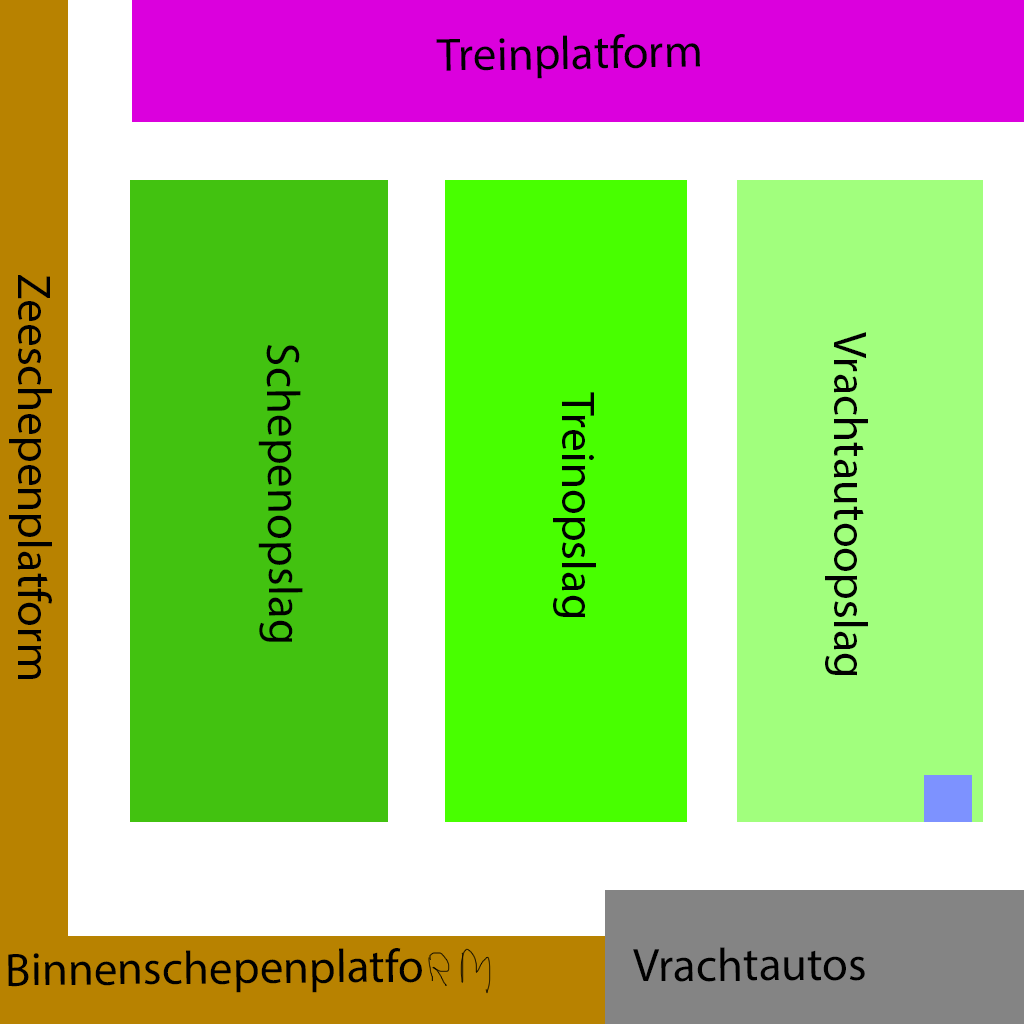
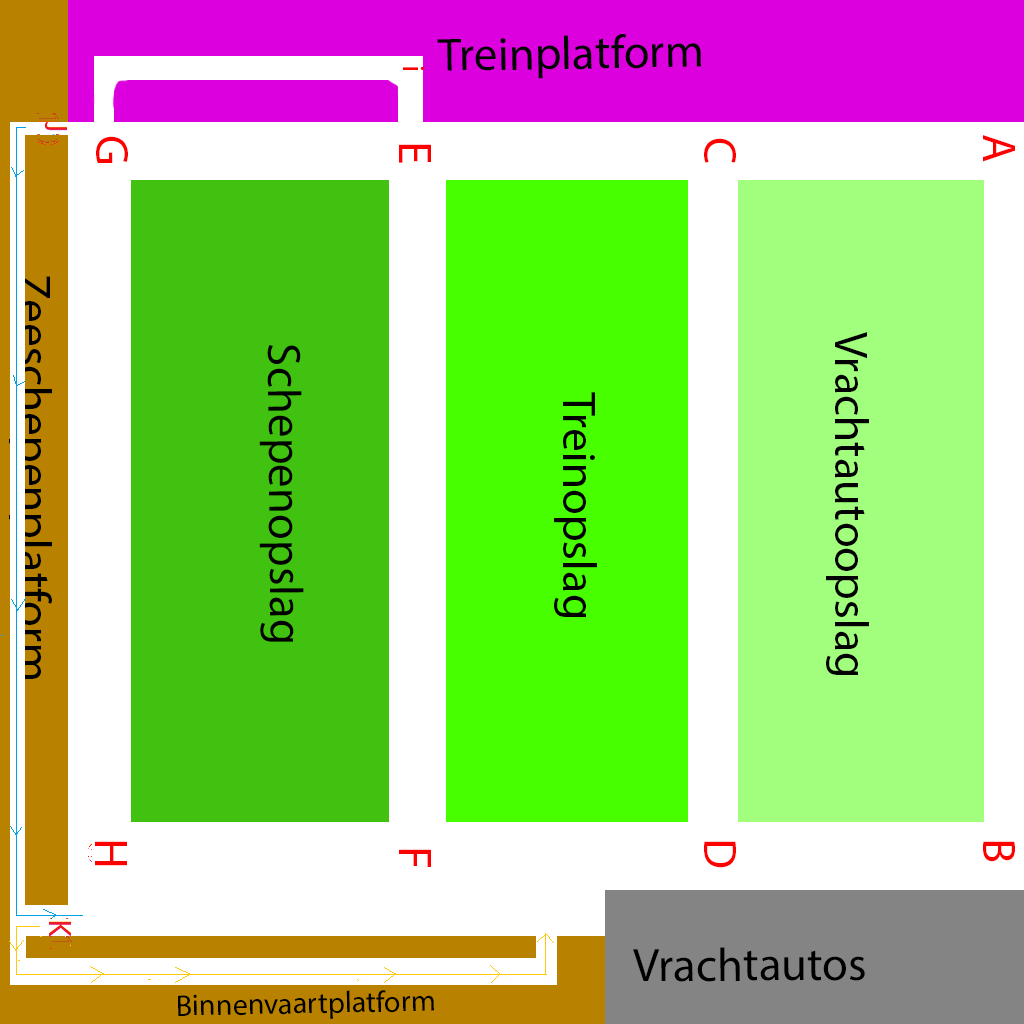
Implemented water and AGVs

diff --git a/src/main/java/org/nhl/containing/vehicles/Agv.java b/src/main/java/org/nhl/containing/vehicles/Agv.java
@@ -15,41 +15,69 @@ public class Agv extends Vehicle {
 
     private AssetManager assetManager;
     private Container container;
-    private float speed = 0.5f;
+    private float speed = 1f;
     private MotionPath path;
-    
+    private MotionPath trainPlatformPath;
+    private MotionPath trainPlatformPath2;
+    private MotionEvent motionControl;
+    private MotionEvent trainPathMotionControl;
+    private MotionEvent trainPathMotionControl2;
+
     public Agv(AssetManager assetManager) {
         this.assetManager = assetManager;
         initAgv();
+        initPaths();
     }
 
     /**
      * Initialize an Agv.
      */
     private void initAgv() {
-
         // Load a model.
         Spatial agv = assetManager.loadModel("Models/medium/agv/agv.j3o");
         this.attachChild(agv);
     }
     /**
+     * initialize the paths
+     */
+    private void initPaths(){
+        path = new MotionPath();
+        motionControl = new MotionEvent(this, path);
+        // set the speed and direction of the AGV using motioncontrol
+        motionControl.setDirectionType(MotionEvent.Direction.PathAndRotation);
+        motionControl.setRotation(new Quaternion().fromAngleNormalAxis(0, Vector3f.UNIT_Y));
+        motionControl.setSpeed(speed);
+        trainPlatformPath = new MotionPath();
+        trainPathMotionControl = new MotionEvent(this, trainPlatformPath);
+        // set the speed and direction of the AGV using motioncontrol
+        trainPathMotionControl.setDirectionType(MotionEvent.Direction.PathAndRotation);
+        trainPathMotionControl.setRotation(new Quaternion().fromAngleNormalAxis(0, Vector3f.UNIT_Y));
+        trainPathMotionControl.setSpeed(speed);
+        trainPlatformPath2 = new MotionPath();
+        trainPathMotionControl2 = new MotionEvent(this, trainPlatformPath2);
+        // set the speed and direction of the AGV using motioncontrol
+        trainPathMotionControl2.setDirectionType(MotionEvent.Direction.PathAndRotation);
+        trainPathMotionControl2.setRotation(new Quaternion().fromAngleNormalAxis(0, Vector3f.UNIT_Y));
+        trainPathMotionControl2.setSpeed(speed);
+    }
+    
+    /**
      * Method that moves this agv over the given path
+     *
      * @param path character arraylist filled with the waypoints
      */
-    public void move(char[] route){
-        path = new MotionPath();
-        MotionEvent motionControl = new MotionEvent(this, path);
+    public void move(char[] route) {
         for (char waypoint : route) {
-            switch(waypoint){
+            switch (waypoint) {
                 case 'A':
                     path.addWayPoint(new Vector3f(580, 0, -140));
-                break;
+                    break;
                 case 'B':
                     path.addWayPoint(new Vector3f(580, 0, 135));
-                break;
+                    break;
                 case 'C':
                     path.addWayPoint(new Vector3f(330, 0, -140));
-                break;
+                    break;
                 case 'D':
                     path.addWayPoint(new Vector3f(330, 0, 136));
                     break;
@@ -65,25 +93,54 @@ public class Agv extends Vehicle {
                 case 'H':
                     path.addWayPoint(new Vector3f(-210, 0, 135));
                     break;
+                //Enter train path
+                case 'I':
+                    path.addWayPoint(new Vector3f(60, 0, -171));
+                    break;
+                //Enter seaship path
+                case 'J':
+                    path.addWayPoint(new Vector3f(-240, 0, -150));
+                    path.addWayPoint(new Vector3f(-285, 0, -150));
+                    break;
+                //Enter inlandship path
+                case 'K':
+                    path.addWayPoint(new Vector3f(-230, 0, 162));
+                    path.addWayPoint(new Vector3f(-285, 0, 162));
+                    path.addWayPoint(new Vector3f(-285, 0, 180));
+                    break;
             }
         }
         path.setCurveTension(0.1f);
-        // set the speed and direction of the AGV using motioncontrol
-        motionControl.setDirectionType(MotionEvent.Direction.PathAndRotation);
-        motionControl.setRotation(new Quaternion().fromAngleNormalAxis(0, Vector3f.UNIT_Y));
-        motionControl.setSpeed(speed);
         motionControl.play();
     }
+
+    public void parkAtTrainPlatform(int location) {
+        path.addWayPoint(new Vector3f(-175 + (20 * location), 0, -172));
+        path.addWayPoint(new Vector3f(-188 + (20 * location), 0, -176));
+        path.addWayPoint(new Vector3f(-190 + (20 * location), 0, -176));
+    }
+
+    public void leaveTrainPlatform() {
+        trainPlatformPath2.clearWayPoints();
+        trainPlatformPath2.addWayPoint(new Vector3f(this.getWorldTranslation().x, this.getWorldTranslation().y, this.getWorldTranslation().z));
+        trainPlatformPath2.addWayPoint(new Vector3f(this.getWorldTranslation().x-5, this.getWorldTranslation().y, this.getWorldTranslation().z+5));
+        trainPlatformPath2.addWayPoint(new Vector3f(-210, 0, -171));
+        trainPlatformPath2.addWayPoint(new Vector3f(-210, 0, -140));
+        trainPlatformPath2.setCurveTension(0.3f);
+        trainPathMotionControl2.play();
+    }
+
     /**
-     * Debug method, displays object name, speed, amount of containers and it's waypoints.
+     * Debug method, displays object name, speed, amount of containers and it's
+     * waypoints.
+     *
      * @return debug information about the object
      */
-    public String getDebugInfo(){
+    public String getDebugInfo() {
         String info = this.getClass().getSimpleName() + "\nSpeed: " + speed + "\nLocation: " + this.getLocalTranslation() + "\nCarrying: ";
-        if(container != null){
-            info+= "1 Container.\n";
-        }
-        else{
+        if (container != null) {
+            info += "1 Container.\n";
+        } else {
             info += "nothing.\n";
         }
         //get waypoints for the AGV (does not exist in this class yet)
@@ -92,16 +149,18 @@ public class Agv extends Vehicle {
 //        }
         return info + "\n";
     }
-        /**
-         * Creates all AGV waypoints and returns the coörds
-         * @return string with the waypoints
-         */
-        public String getWaypoints(){
+
+    /**
+     * Creates all AGV waypoints and returns the coörds
+     *
+     * @return string with the waypoints
+     */
+    public String getWaypoints() {
         char[] debugarr = {'A', 'B', 'C', 'D', 'E', 'F', 'G', 'H'};
         move(debugarr);
         String info = "\nAGV Waypoints: ";
         for (int j = 0; j < path.getNbWayPoints(); j++) {
-        info += "Waypoint " + (j+1) + ": " + path.getWayPoint(j) + " ";
+            info += "Waypoint " + (j + 1) + ": " + path.getWayPoint(j) + " ";
         }
         return info + "\n";
     }

diff --git a/src/main/java/org/nhl/containing/Simulation.java b/src/main/java/org/nhl/containing/Simulation.java
@@ -1,18 +1,18 @@
 package org.nhl.containing;
 
-import com.jme3.animation.LoopMode;
 import com.jme3.app.SimpleApplication;
-import com.jme3.cinematic.MotionPath;
-import com.jme3.cinematic.events.MotionEvent;
 import com.jme3.input.KeyInput;
 import com.jme3.input.controls.ActionListener;
 import com.jme3.input.controls.KeyTrigger;
 import com.jme3.light.DirectionalLight;
+import com.jme3.material.Material;
 import com.jme3.math.ColorRGBA;
-import com.jme3.math.Quaternion;
 import com.jme3.math.Vector3f;
 import com.jme3.renderer.RenderManager;
+import com.jme3.scene.Geometry;
 import com.jme3.scene.Spatial;
+import com.jme3.scene.shape.Box;
+import com.jme3.texture.Texture;
 import org.nhl.containing.areas.*;
 import org.nhl.containing.communication.Client;
 import org.nhl.containing.vehicles.*;
@@ -382,6 +382,15 @@ public class Simulation extends SimpleApplication {
         //schuif platform op
         platform.setLocalTranslation(150, 0, 0);
         rootNode.attachChild(platform);
+        //water
+        Box waterplatform = new Box(1000f,1f,1000f); 
+        Geometry waterGeo = new Geometry("", waterplatform); 
+        Material boxMat = new Material(assetManager, "Common/MatDefs/Misc/Unshaded.j3md"); 
+        Texture waterTexture = assetManager.loadTexture("/Models/platform/water.jpg"); 
+        boxMat.setTexture("ColorMap", waterTexture); 
+        waterGeo.setLocalTranslation(150, -1, 0);
+        waterGeo.setMaterial(boxMat); 
+        rootNode.attachChild(waterGeo); 
     }
 
     private void initUserInput() {
